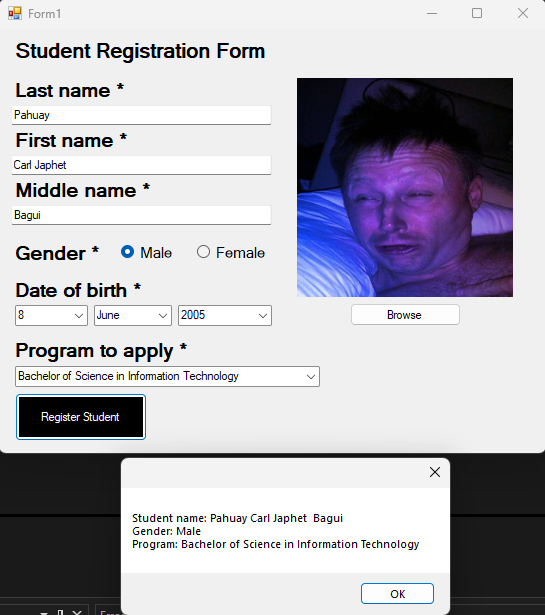
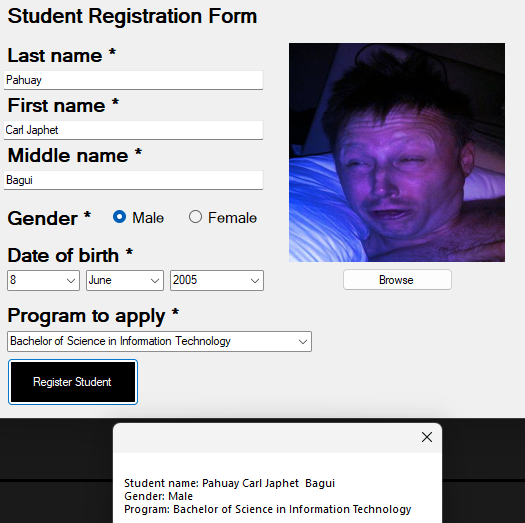
Add files via upload

diff --git a/index.html b/index.html
@@ -136,91 +136,164 @@
     </div>
 </section>
 
-    <!-- PROJECTS -->
-    <section id="projects">
-        <h2>Projects</h2>
+<section id="projects">
+    <h2>Projects</h2>
 
-        <div class="project-container">
+    <div class="project-container">
 
-			<div class="project-card">
-				<img src="images/csharp-project.png" alt="C# Registration System">
-
-				<h3>C# Registration System</h3>
-
-				<p>
-					A desktop application built using C# that manages student registrations and records.
-				</p>
-		
-				<p><strong>Tools:</strong> C#, Windows Forms, SQL</p>
-
-			</div>
+        <!-- C# PROJECT -->
+        <a href="https://github.com/NexuzCalamity/Student_Registration"
+           target="_blank"
+           class="project-link">
 
             <div class="project-card">
-                <img src="images/project2.png" alt="Calculator">
+
+                <img src="images/csharp-project.png"
+                alt="C# Registration System">
+
+                <h3>C# Registration System</h3>
+
+                <p>
+                    A desktop application built using C#
+                    that manages student registrations
+                    and records.
+                </p>
+
+                <p>
+                    <strong>Tools:</strong>
+                    C#, Windows Forms, SQL
+                </p>
+
+                <button class="see-more-btn">
+                    See More
+                </button>
+
+            </div>
+
+        </a>
+
+        <!-- CALCULATOR -->
+        <a href="https://github.com/NexuzCalamity/CALCULATOR"
+           target="_blank"
+           class="project-link">
+
+            <div class="project-card">
+
+                <img src="images/project2.png"
+                alt="Calculator">
 
                 <h3>Calculator App</h3>
 
                 <p>
-                    A simple calculator created using JavaScript.
+                    A simple calculator created
+                    using JavaScript.
                 </p>
 
-                <p><strong>Tools:</strong> HTML, CSS, JavaScript</p>
+                <p>
+                    <strong>Tools:</strong>
+                    HTML, CSS, JavaScript
+                </p>
+
+                <button class="see-more-btn">
+                    See More
+                </button>
+
             </div>
-			
-	<a href="https://github.com/NexuzCalamity/Zombie_Game/tree/main/zombie-shooter"
-		target="_blank"
-		rel="noopener noreferrer"
-		class="project-link">
+
+        </a>
+
+        <!-- ZOMBIE -->
+        <a href="https://github.com/NexuzCalamity/Zombie_Game/tree/main/zombie-shooter"
+           target="_blank"
+           class="project-link">
+
+            <div class="project-card">
+
+                <img src="images/zombie.png"
+                alt="Zombie Game">
+
+                <h3>Zombie Shooter Game</h3>
+
+                <p>
+                    A web-based zombie game developed
+                    by me and still in progress.
+                </p>
+
+                <p>
+                    <strong>Tools:</strong>
+                    HTML, CSS, JavaScript
+                </p>
+
+                <button class="see-more-btn">
+                    See More
+                </button>
+
+            </div>
+
+        </a>
+		
+		<!-- CRAFTIST -->
+		<a href="https://github.com/NexuzCalamity/Craftist"
+			target="_blank"
+			class="project-link">
 
 		<div class="project-card">
 
-			<img src="images/zombie.png"
-			alt="Web-based Zombie Game">
+			<img src="images/craftist.png"
+			alt="Craftist Art Shop">
 
-        <h3>Zombie Shooter Game</h3>
+			<h3>Craftist Art E-Shop</h3>
 
-        <p>
-            A web-based zombie game developed by me
-            and still in progress.
-        </p>
+			<p>
+				Art shop developed by me and my
+				classmate for mini system.
+			</p>
 
-        <p>
-            <strong>Tools:</strong>
-            HTML, CSS, JavaScript
-        </p>
+			<p>
+				<strong>Tools:</strong>
+				HTML, CSS, JavaScript, PHP
+			</p>
+
+			<button class="see-more-btn">
+				See More
+			</button>
 
 		</div>
-	
+
+		</a>	
+
+		<!-- KOPPIPARAZZI -->
+		<a href="https://github.com/NexuzCalamity/Koppiparazzi"
+			target="_blank"
+			class="project-link">
+
+		<div class="project-card">
+
+			<img src="images/Koppiparazzi.png"
+			alt="Koppiparazzi">
+
+			<h3>Koppiparazzi Ordering System</h3>
+
+			<p>
+				Coffee shop developed by me
+				for mini capstone.
+			</p>
+
+			<p>
+				<strong>Tools:</strong>
+				HTML, CSS, JavaScript, PHP
+			</p>
+
+			<button class="see-more-btn">
+				See More
+			</button>
+
+		</div>
+
 	</a>
-			
-			<div class="project-card">
-				<img src="images/craftist.png" alt="Web base art shop">
 
-				<h3>Craftist Art E-Shop</h3>
-
-				<p>
-					Art shop develop by me and my classmate for mini system.
-				</p>
-		
-                <p><strong>Tools:</strong> HTML, CSS, JavaScript, PHP</p>
-
-			</div>
-			
-						<div class="project-card">
-				<img src="images/Koppiparazzi.png" alt="Koppiparazzi">
-
-				<h3>Koppiparazzi Ordering System</h3>
-
-				<p>
-					Coffee shop develop by me for mini capstone.
-				</p>
-		
-                <p><strong>Tools:</strong> HTML, CSS, JavaScript, PHP</p>
-
-			</div>
-
-        </div>
-    </section>
+    </div>
+</section>
 
     <!-- REFLECTION -->
     <section id="reflection">

diff --git a/style.css b/style.css
@@ -139,12 +139,6 @@ nav ul li a:hover{
     font-size:20px;
 }
 
-.project-card:hover{
-    transform:translateY(-10px);
-
-    box-shadow:
-    0 0 20px rgba(37,99,235,.5);
-}
 .card{
     backdrop-filter:blur(10px);
 }
@@ -198,16 +192,27 @@ h2{
     display:flex;
     gap:20px;
     flex-wrap:wrap;
+
     justify-content:center;
+
+	align-items:flex-end;
 }
 
 .project-card{
     background:white;
     border-radius:10px;
+
     overflow:hidden;
+
     width:300px;
+
     box-shadow:0 4px 10px rgba(0,0,0,0.1);
+
     transition:0.3s;
+
+    display:flex;
+    flex-direction:column;
+    justify-content:space-between;
 }
 
 .project-card:hover{
@@ -216,8 +221,12 @@ h2{
 
 .project-card img{
     width:100%;
-    height:200px;
+    height:230px;
+
     object-fit:cover;
+    object-position:top;
+
+    display:block;
 }
 
 .project-card h3,
@@ -474,9 +483,6 @@ nav ul li a.active{
 	box-shadow .3s ease,
 	background .3s ease;
 }
-html{
-    scroll-behavior:smooth;
-}
 
 section{
     padding:80px 10%;
@@ -521,5 +527,47 @@ body{
 }
 .project-link{
     text-decoration:none;
-    color:inherit;
+    color:black;
+
+    display:block;
+}
+
+.project-link:visited{
+    color:black;
+}
+
+.project-link:hover{
+    text-decoration:none;
+    color:black;
+}
+
+.project-container{
+    display:flex;
+    gap:20px;
+    flex-wrap:wrap;
+
+    justify-content:center;
+
+    align-items:flex-end;
+}
+
+.project-link{
+    text-decoration:none;
+    color:black;
+}
+
+.project-link:visited{
+    color:black;
+}
+
+.project-link:hover{
+    text-decoration:none;
+    color:black;
+}
+
+.project-link{
+    text-decoration:none;
+    color:black;
+
+    display:block;
 }
